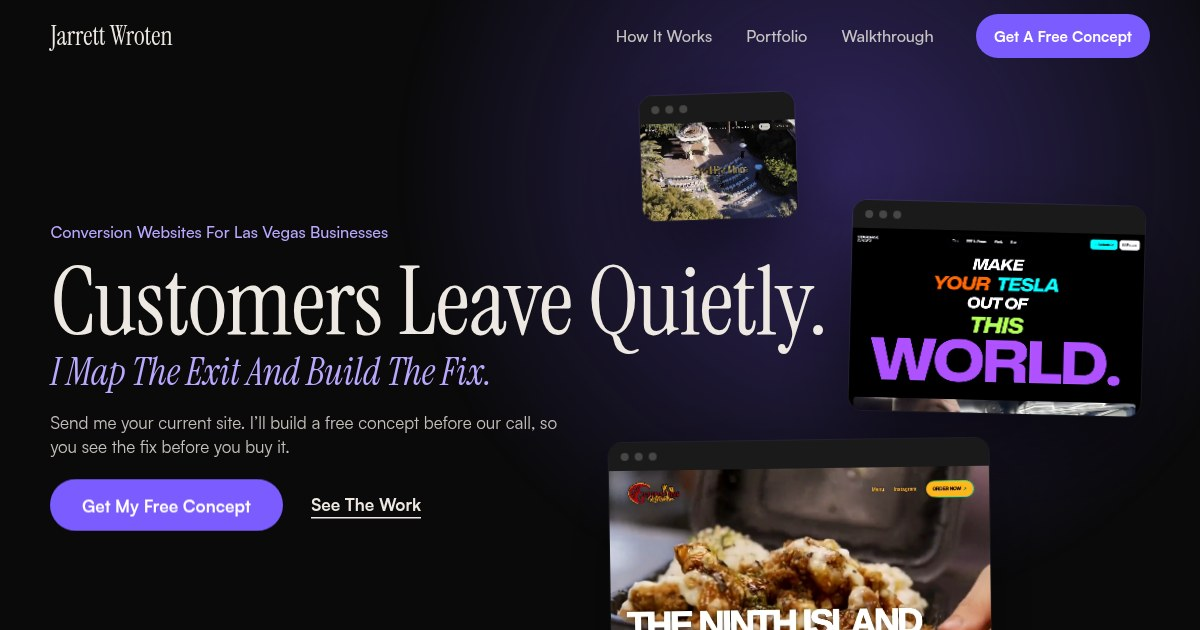
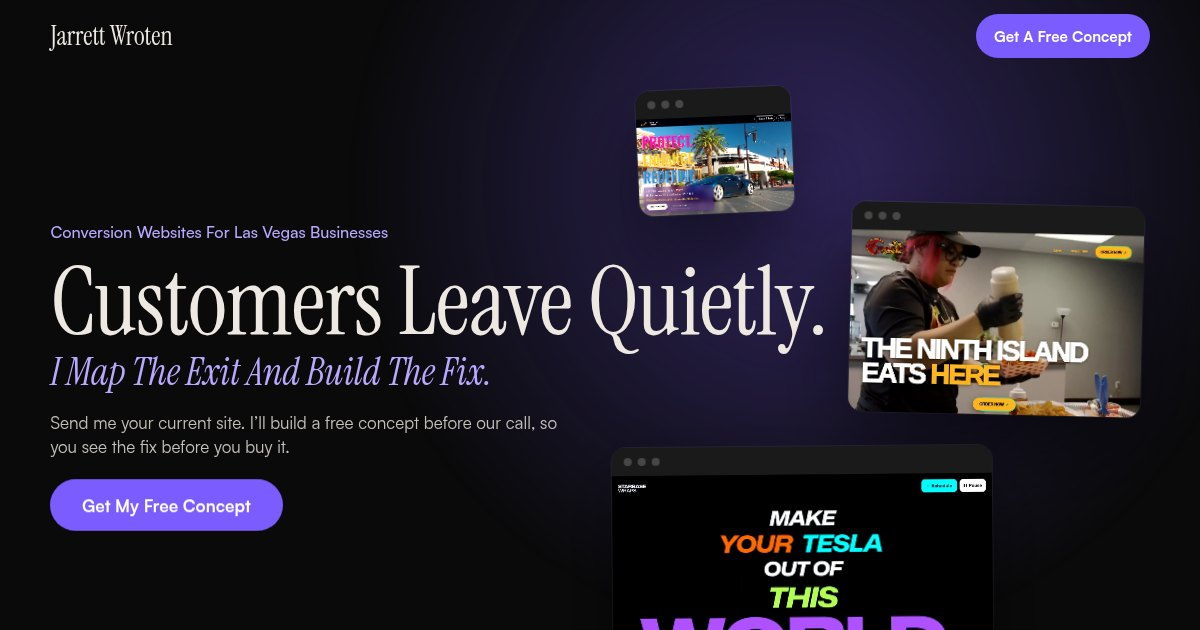
og.jpg reshot 1200x630 from live hero (Wrapstar lead card); cache-bust

diff --git a/index.html b/index.html
@@ -11,13 +11,13 @@
 <meta property="og:title" content="Conversion Websites For Las Vegas Businesses | Jarrett Wroten">
 <meta property="og:description" content="Customers leave quietly. I map the exit and build the fix. Send your current site and I’ll build a free concept before our call.">
 <meta property="og:url" content="https://jarrettwroten.com/">
-<meta property="og:image" content="https://jarrettwroten.com/assets/jw/og.jpg?v=20261009b">
+<meta property="og:image" content="https://jarrettwroten.com/assets/jw/og.jpg?v=20261010c">
 <meta property="og:image:width" content="1200">
 <meta property="og:image:height" content="630">
 <meta name="twitter:card" content="summary_large_image">
 <meta name="twitter:title" content="Conversion Websites For Las Vegas Businesses | Jarrett Wroten">
 <meta name="twitter:description" content="Customers leave quietly. I map the exit and build the fix. Send your current site and I’ll build a free concept before our call.">
-<meta name="twitter:image" content="https://jarrettwroten.com/assets/jw/og.jpg?v=20261009b">
+<meta name="twitter:image" content="https://jarrettwroten.com/assets/jw/og.jpg?v=20261010c">
 <meta name="theme-color" content="#0a0a0a">
 <link rel="icon" href="/favicon.ico" sizes="any">
 <link rel="icon" href="/favicon.svg" type="image/svg+xml">

diff --git a/portfolio/index.html b/portfolio/index.html
@@ -11,13 +11,13 @@
 <meta property="og:title" content="Portfolio: Concept Websites | Jarrett Wroten">
 <meta property="og:description" content="11 concept websites Jarrett Wroten built from each business’s own footage. Open any of them live.">
 <meta property="og:url" content="https://jarrettwroten.com/portfolio/">
-<meta property="og:image" content="https://jarrettwroten.com/assets/jw/og.jpg">
+<meta property="og:image" content="https://jarrettwroten.com/assets/jw/og.jpg?v=20261010c">
 <meta property="og:image:width" content="1200">
 <meta property="og:image:height" content="630">
 <meta name="twitter:card" content="summary_large_image">
 <meta name="twitter:title" content="Portfolio: Concept Websites | Jarrett Wroten">
 <meta name="twitter:description" content="11 concept websites Jarrett Wroten built from each business’s own footage. Open any of them live.">
-<meta name="twitter:image" content="https://jarrettwroten.com/assets/jw/og.jpg">
+<meta name="twitter:image" content="https://jarrettwroten.com/assets/jw/og.jpg?v=20261010c">
 <meta name="theme-color" content="#0a0a0a">
 <link rel="icon" href="/favicon.ico" sizes="any">
 <link rel="icon" href="/favicon.svg" type="image/svg+xml">
